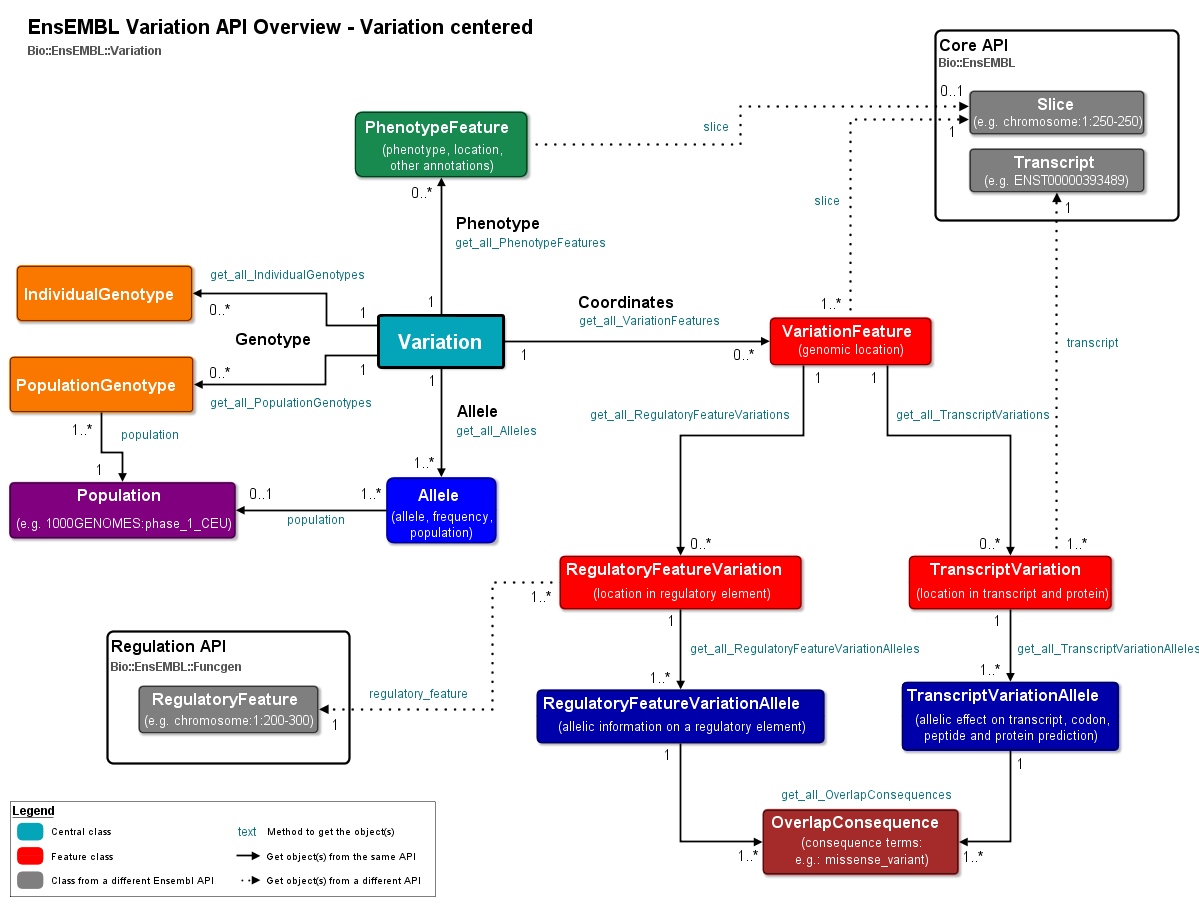
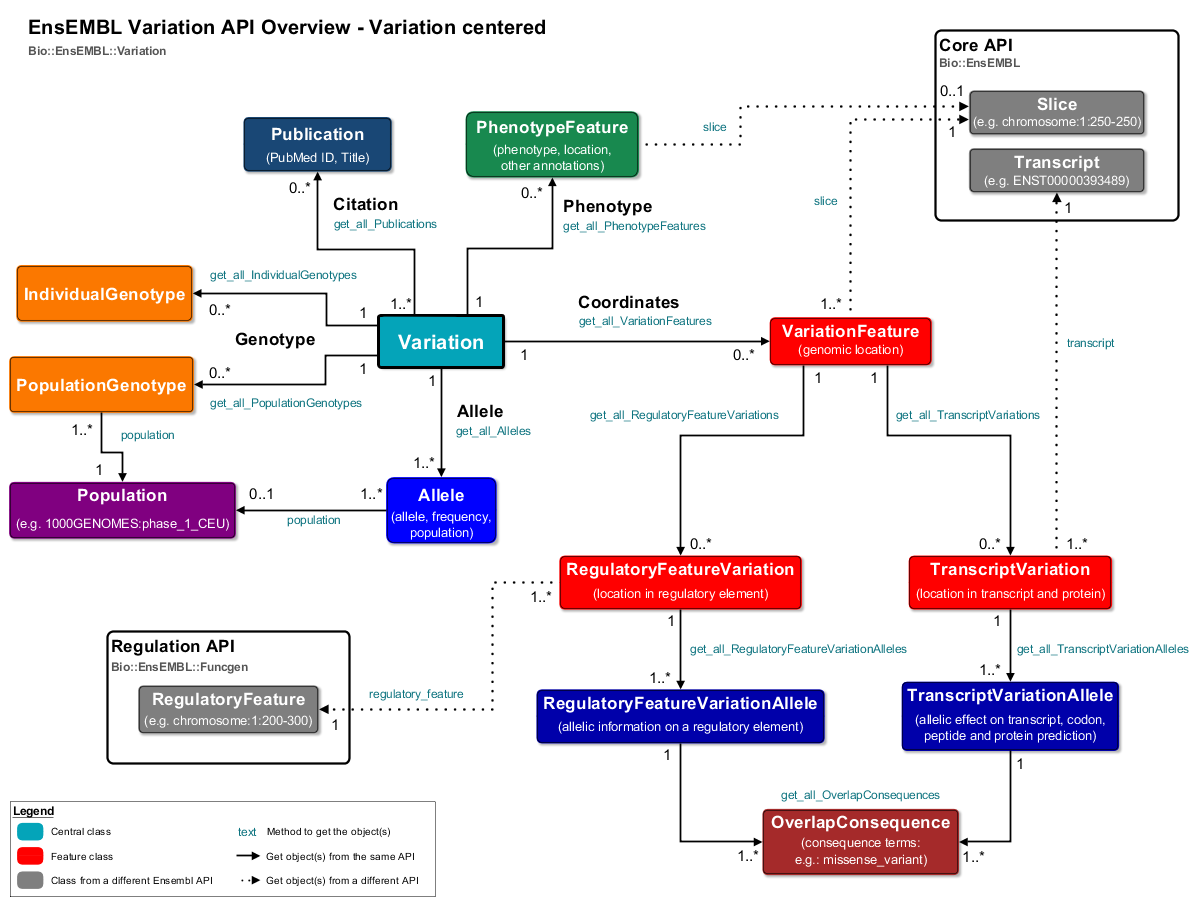
Update the Variation schema diagram

diff --git a/docs/htdocs/info/docs/api/variation/variation_API_diagram.html b/docs/htdocs/info/docs/api/variation/variation_API_diagram.html
@@ -13,44 +13,46 @@
 
 <h1>Variation API diagram overview - Variation class</h1>
 
-<div class="tooltip" id="n54">Click to view the PhenotypeFeature class documentation</div>
-<div class="tooltip" id="n55">Click to view the Allele class documentation</div>
-<div class="tooltip" id="n56">Click to view the IndividualGenotype class documentation</div>
-<div class="tooltip" id="n57">Click to view the PopulationGenotype class documentation</div>
-<div class="tooltip" id="n58">Click to view the Variation class documentation</div>
-<div class="tooltip" id="n59">Click to view the Population class documentation</div>
-<div class="tooltip" id="n60">Click to view the RegulatoryFeature class documentation</div>
-<div class="tooltip" id="n61">Click to view the Doxygen documentation for the Variation API</div>
-<div class="tooltip" id="n62">Click to view the Doxygen documentation for the Core API</div>
-<div class="tooltip" id="n63">Click to view the Doxygen ldocumentation for the FuncGen API (Regulation)</div>
-<div class="tooltip" id="n64">Click to view the VariationFeature class documentation</div>
-<div class="tooltip" id="n65">Click to view the TranscriptVariation class documentation</div>
-<div class="tooltip" id="n66">Click to view the Slice class documentation</div>
-<div class="tooltip" id="n67">Click to view the Transcript class documentation</div>
-<div class="tooltip" id="n68">Click to view the TranscriptVariationAllele class documentation</div>
-<div class="tooltip" id="n69">Click to view the OverlapConsequence class documentation</div>
-<div class="tooltip" id="n70">Click to view the RegulatoryFeatureVariation class documentation</div>
-<div class="tooltip" id="n71">Click to view the RegulatoryFeatureVariationAllele class documentation</div>
+<div class="tooltip" id="n53">Click to view the PhenotypeFeature class documentation</div>
+<div class="tooltip" id="n54">Click to view the Allele class documentation</div>
+<div class="tooltip" id="n55">Click to view the IndividualGenotype class documentation</div>
+<div class="tooltip" id="n56">Click to view the PopulationGenotype class documentation</div>
+<div class="tooltip" id="n57">Click to view the Variation class documentation</div>
+<div class="tooltip" id="n58">Click to view the Population class documentation</div>
+<div class="tooltip" id="n59">Click to view the RegulatoryFeature class documentation</div>
+<div class="tooltip" id="n60">Click to view the Doxygen documentation for the Variation API</div>
+<div class="tooltip" id="n61">Click to view the Doxygen documentation for the Core API</div>
+<div class="tooltip" id="n62">Click to view the Doxygen documentation for the FuncGen API (Regulation)</div>
+<div class="tooltip" id="n63">Click to view the VariationFeature class documentation</div>
+<div class="tooltip" id="n64">Click to view the TranscriptVariation class documentation</div>
+<div class="tooltip" id="n65">Click to view the Slice class documentation</div>
+<div class="tooltip" id="n66">Click to view the Transcript class documentation</div>
+<div class="tooltip" id="n67">Click to view the TranscriptVariationAllele class documentation</div>
+<div class="tooltip" id="n68">Click to view the OverlapConsequence class documentation</div>
+<div class="tooltip" id="n69">Click to view the RegulatoryFeatureVariation class documentation</div>
+<div class="tooltip" id="n70">Click to view the RegulatoryFeatureVariationAllele class documentation</div>
+<div class="tooltip" id="n82">Click to view the Publication class documentation</div>
 
 <map name="image1_1">
-  <area shape="rect" coords="536,689,824,743" href="http://www.ensembl.org/info/docs/Doxygen/variation-api/classBio_1_1EnsEMBL_1_1Variation_1_1RegulatoryFeatureVariationAllele.html" alt="" target="_blank" onmouseout="hideTooltip()" onmouseover="showTooltip('n71')"/>
-  <area shape="rect" coords="559,555,801,609" href="http://www.ensembl.org/info/docs/Doxygen/variation-api/classBio_1_1EnsEMBL_1_1Variation_1_1RegulatoryFeatureVariation.html" alt="" target="_blank" onmouseout="hideTooltip()" onmouseover="showTooltip('n70')"/>
-  <area shape="rect" coords="762,808,959,875" href="http://www.ensembl.org/info/docs/Doxygen/variation-api/classBio_1_1EnsEMBL_1_1Variation_1_1OverlapConsequence.html" alt="" target="_blank" onmouseout="hideTooltip()" onmouseover="showTooltip('n69')"/>
-  <area shape="rect" coords="901,681,1119,750" href="http://www.ensembl.org/info/docs/Doxygen/variation-api/classBio_1_1EnsEMBL_1_1Variation_1_1TranscriptVariationAllele.html" alt="" target="_blank" onmouseout="hideTooltip()" onmouseover="showTooltip('n68')"/>
-  <area shape="rect" coords="968,148,1144,192" href="http://www.ensembl.org/info/docs/Doxygen/core-api/classBio_1_1EnsEMBL_1_1Transcript.html" alt="" target="_blank" onmouseout="hideTooltip()" onmouseover="showTooltip('n67')"/>
-  <area shape="rect" coords="968,90,1144,134" href="http://www.ensembl.org/info/docs/Doxygen/core-api/classBio_1_1EnsEMBL_1_1Slice.html" alt="" target="_blank" onmouseout="hideTooltip()" onmouseover="showTooltip('n66')"/>
-  <area shape="rect" coords="908,555,1112,609" href="http://www.ensembl.org/info/docs/Doxygen/variation-api/classBio_1_1EnsEMBL_1_1Variation_1_1TranscriptVariation.html" alt="" target="_blank" onmouseout="hideTooltip()" onmouseover="showTooltip('n65')"/>
-  <area shape="rect" coords="769,317,931,365" href="http://www.ensembl.org/info/docs/Doxygen/variation-api/classBio_1_1EnsEMBL_1_1Variation_1_1VariationFeature.html" alt="" target="_blank" onmouseout="hideTooltip()" onmouseover="showTooltip('n64')"/>
-  <area shape="rect" coords="107,655,251,677" href="http://www.ensembl.org/info/docs/Doxygen/funcgen-api/index.html" alt="" target="_blank" onmouseout="hideTooltip()" onmouseover="showTooltip('n63')"/>
-  <area shape="rect" coords="935,50,1023,72" href="http://www.ensembl.org/info/docs/Doxygen/core-api/index.html" alt="" target="_blank" onmouseout="hideTooltip()" onmouseover="showTooltip('n62')"/>
-  <area shape="rect" coords="19,39,175,61" href="http://www.ensembl.org/info/docs/Doxygen/variation-api/index.html" alt="" target="_blank" onmouseout="hideTooltip()" onmouseover="showTooltip('n61')"/>
-  <area shape="rect" coords="138,685,318,733" href="http://www.ensembl.org/info/docs/Doxygen/funcgen-api/classBio_1_1EnsEMBL_1_1Funcgen_1_1RegulatoryFeature.html" alt="" target="_blank" onmouseout="hideTooltip()" onmouseover="showTooltip('n60')"/>
-  <area shape="rect" coords="9,481,235,538" href="http://www.ensembl.org/info/docs/Doxygen/variation-api/classBio_1_1EnsEMBL_1_1Variation_1_1Population.html" alt="" target="_blank" onmouseout="hideTooltip()" onmouseover="showTooltip('n59')"/>
-  <area shape="rect" coords="378,315,503,367" href="http://www.ensembl.org/info/docs/Doxygen/variation-api/classBio_1_1EnsEMBL_1_1Variation_1_1Variation.html" alt="" target="_blank" onmouseout="hideTooltip()" onmouseover="showTooltip('n58')"/>
-  <area shape="rect" coords="9,356,194,412" href="http://www.ensembl.org/info/docs/Doxygen/variation-api/classBio_1_1EnsEMBL_1_1Variation_1_1PopulationGenotype.html" alt="" target="_blank" onmouseout="hideTooltip()" onmouseover="showTooltip('n57')"/>
-  <area shape="rect" coords="16,265,192,321" href="http://www.ensembl.org/info/docs/Doxygen/variation-api/classBio_1_1EnsEMBL_1_1Variation_1_1IndividualGenotype.html" alt="" target="_blank" onmouseout="hideTooltip()" onmouseover="showTooltip('n56')"/>
-  <area shape="rect" coords="386,477,496,543" href="http://www.ensembl.org/info/docs/Doxygen/variation-api/classBio_1_1EnsEMBL_1_1Variation_1_1Allele.html" alt="" target="_blank" onmouseout="hideTooltip()" onmouseover="showTooltip('n55')"/>
-  <area shape="rect" coords="354,111,528,177" href="http://www.ensembl.org/info/docs/Doxygen/variation-api/classBio_1_1EnsEMBL_1_1Variation_1_1PhenotypeFeature.html" alt="" target="_blank" onmouseout="hideTooltip()" onmouseover="showTooltip('n54')"/>
+  <area shape="rect" coords="243,116,391,171" href="http://www.ensembl.org/info/docs/Doxygen/variation-api/classBio_1_1EnsEMBL_1_1Variation_1_1Publication.html" alt="" target="_blank" onmouseout="hideTooltip()" onmouseover="showTooltip('n82')"/>
+  <area shape="rect" coords="536,689,824,743" href="http://www.ensembl.org/info/docs/Doxygen/variation-api/classBio_1_1EnsEMBL_1_1Variation_1_1RegulatoryFeatureVariationAllele.html" alt="" target="_blank" onmouseout="hideTooltip()" onmouseover="showTooltip('n70')"/>
+  <area shape="rect" coords="559,555,801,609" href="http://www.ensembl.org/info/docs/Doxygen/variation-api/classBio_1_1EnsEMBL_1_1Variation_1_1RegulatoryFeatureVariation.html" alt="" target="_blank" onmouseout="hideTooltip()" onmouseover="showTooltip('n69')"/>
+  <area shape="rect" coords="762,808,959,875" href="http://www.ensembl.org/info/docs/Doxygen/variation-api/classBio_1_1EnsEMBL_1_1Variation_1_1OverlapConsequence.html" alt="" target="_blank" onmouseout="hideTooltip()" onmouseover="showTooltip('n68')"/>
+  <area shape="rect" coords="901,681,1119,750" href="http://www.ensembl.org/info/docs/Doxygen/variation-api/classBio_1_1EnsEMBL_1_1Variation_1_1TranscriptVariationAllele.html" alt="" target="_blank" onmouseout="hideTooltip()" onmouseover="showTooltip('n67')"/>
+  <area shape="rect" coords="968,148,1144,192" href="http://www.ensembl.org/info/docs/Doxygen/core-api/classBio_1_1EnsEMBL_1_1Transcript.html" alt="" target="_blank" onmouseout="hideTooltip()" onmouseover="showTooltip('n66')"/>
+  <area shape="rect" coords="968,90,1144,134" href="http://www.ensembl.org/info/docs/Doxygen/core-api/classBio_1_1EnsEMBL_1_1Slice.html" alt="" target="_blank" onmouseout="hideTooltip()" onmouseover="showTooltip('n65')"/>
+  <area shape="rect" coords="908,555,1112,609" href="http://www.ensembl.org/info/docs/Doxygen/variation-api/classBio_1_1EnsEMBL_1_1Variation_1_1TranscriptVariation.html" alt="" target="_blank" onmouseout="hideTooltip()" onmouseover="showTooltip('n64')"/>
+  <area shape="rect" coords="769,317,931,365" href="http://www.ensembl.org/info/docs/Doxygen/variation-api/classBio_1_1EnsEMBL_1_1Variation_1_1VariationFeature.html" alt="" target="_blank" onmouseout="hideTooltip()" onmouseover="showTooltip('n63')"/>
+  <area shape="rect" coords="107,655,251,677" href="http://www.ensembl.org/info/docs/Doxygen/funcgen-api/index.html" alt="" target="_blank" onmouseout="hideTooltip()" onmouseover="showTooltip('n62')"/>
+  <area shape="rect" coords="935,50,1023,72" href="http://www.ensembl.org/info/docs/Doxygen/core-api/index.html" alt="" target="_blank" onmouseout="hideTooltip()" onmouseover="showTooltip('n61')"/>
+  <area shape="rect" coords="19,39,175,61" href="http://www.ensembl.org/info/docs/Doxygen/variation-api/index.html" alt="" target="_blank" onmouseout="hideTooltip()" onmouseover="showTooltip('n60')"/>
+  <area shape="rect" coords="138,685,318,733" href="http://www.ensembl.org/info/docs/Doxygen/funcgen-api/classBio_1_1EnsEMBL_1_1Funcgen_1_1RegulatoryFeature.html" alt="" target="_blank" onmouseout="hideTooltip()" onmouseover="showTooltip('n59')"/>
+  <area shape="rect" coords="9,481,235,538" href="http://www.ensembl.org/info/docs/Doxygen/variation-api/classBio_1_1EnsEMBL_1_1Variation_1_1Population.html" alt="" target="_blank" onmouseout="hideTooltip()" onmouseover="showTooltip('n58')"/>
+  <area shape="rect" coords="378,315,503,367" href="http://www.ensembl.org/info/docs/Doxygen/variation-api/classBio_1_1EnsEMBL_1_1Variation_1_1Variation.html" alt="" target="_blank" onmouseout="hideTooltip()" onmouseover="showTooltip('n57')"/>
+  <area shape="rect" coords="9,356,194,412" href="http://www.ensembl.org/info/docs/Doxygen/variation-api/classBio_1_1EnsEMBL_1_1Variation_1_1PopulationGenotype.html" alt="" target="_blank" onmouseout="hideTooltip()" onmouseover="showTooltip('n56')"/>
+  <area shape="rect" coords="16,265,192,321" href="http://www.ensembl.org/info/docs/Doxygen/variation-api/classBio_1_1EnsEMBL_1_1Variation_1_1IndividualGenotype.html" alt="" target="_blank" onmouseout="hideTooltip()" onmouseover="showTooltip('n55')"/>
+  <area shape="rect" coords="386,477,496,543" href="http://www.ensembl.org/info/docs/Doxygen/variation-api/classBio_1_1EnsEMBL_1_1Variation_1_1Allele.html" alt="" target="_blank" onmouseout="hideTooltip()" onmouseover="showTooltip('n54')"/>
+  <area shape="rect" coords="465,111,638,177" href="http://www.ensembl.org/info/docs/Doxygen/variation-api/classBio_1_1EnsEMBL_1_1Variation_1_1PhenotypeFeature.html" alt="" target="_blank" onmouseout="hideTooltip()" onmouseover="showTooltip('n53')"/>
 </map>
 
     <table class="yimagetable" cellspacing="0" cellpadding="0" border="0">
